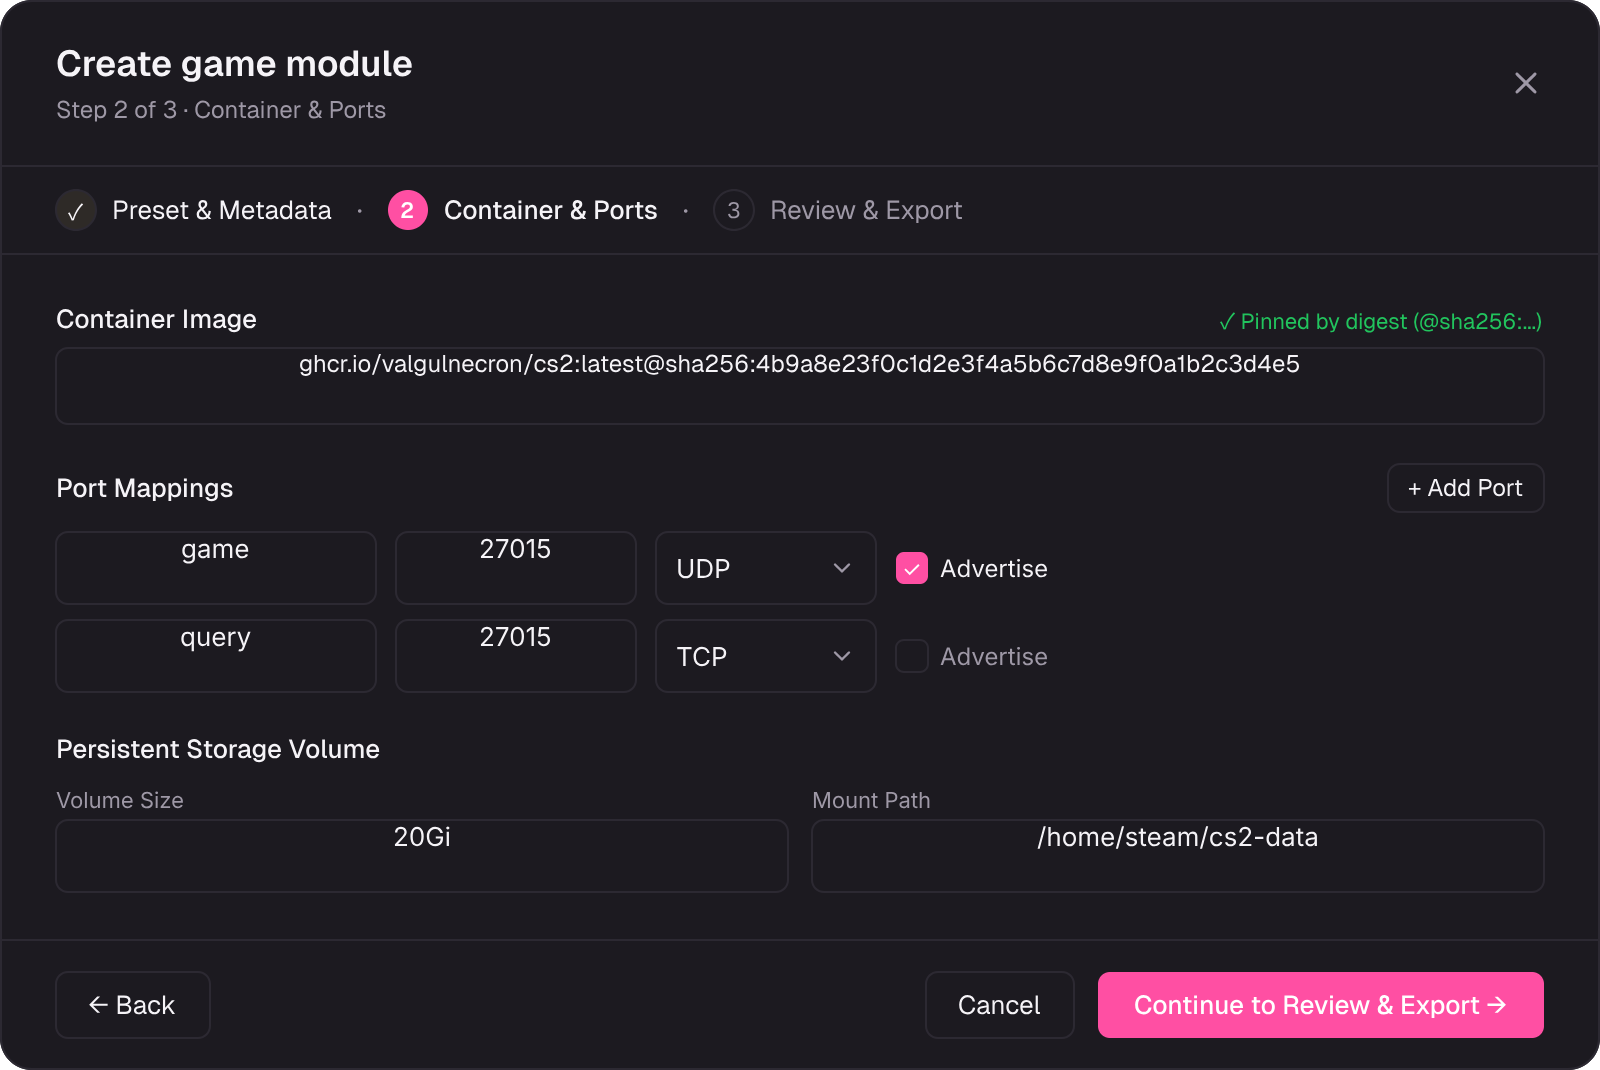
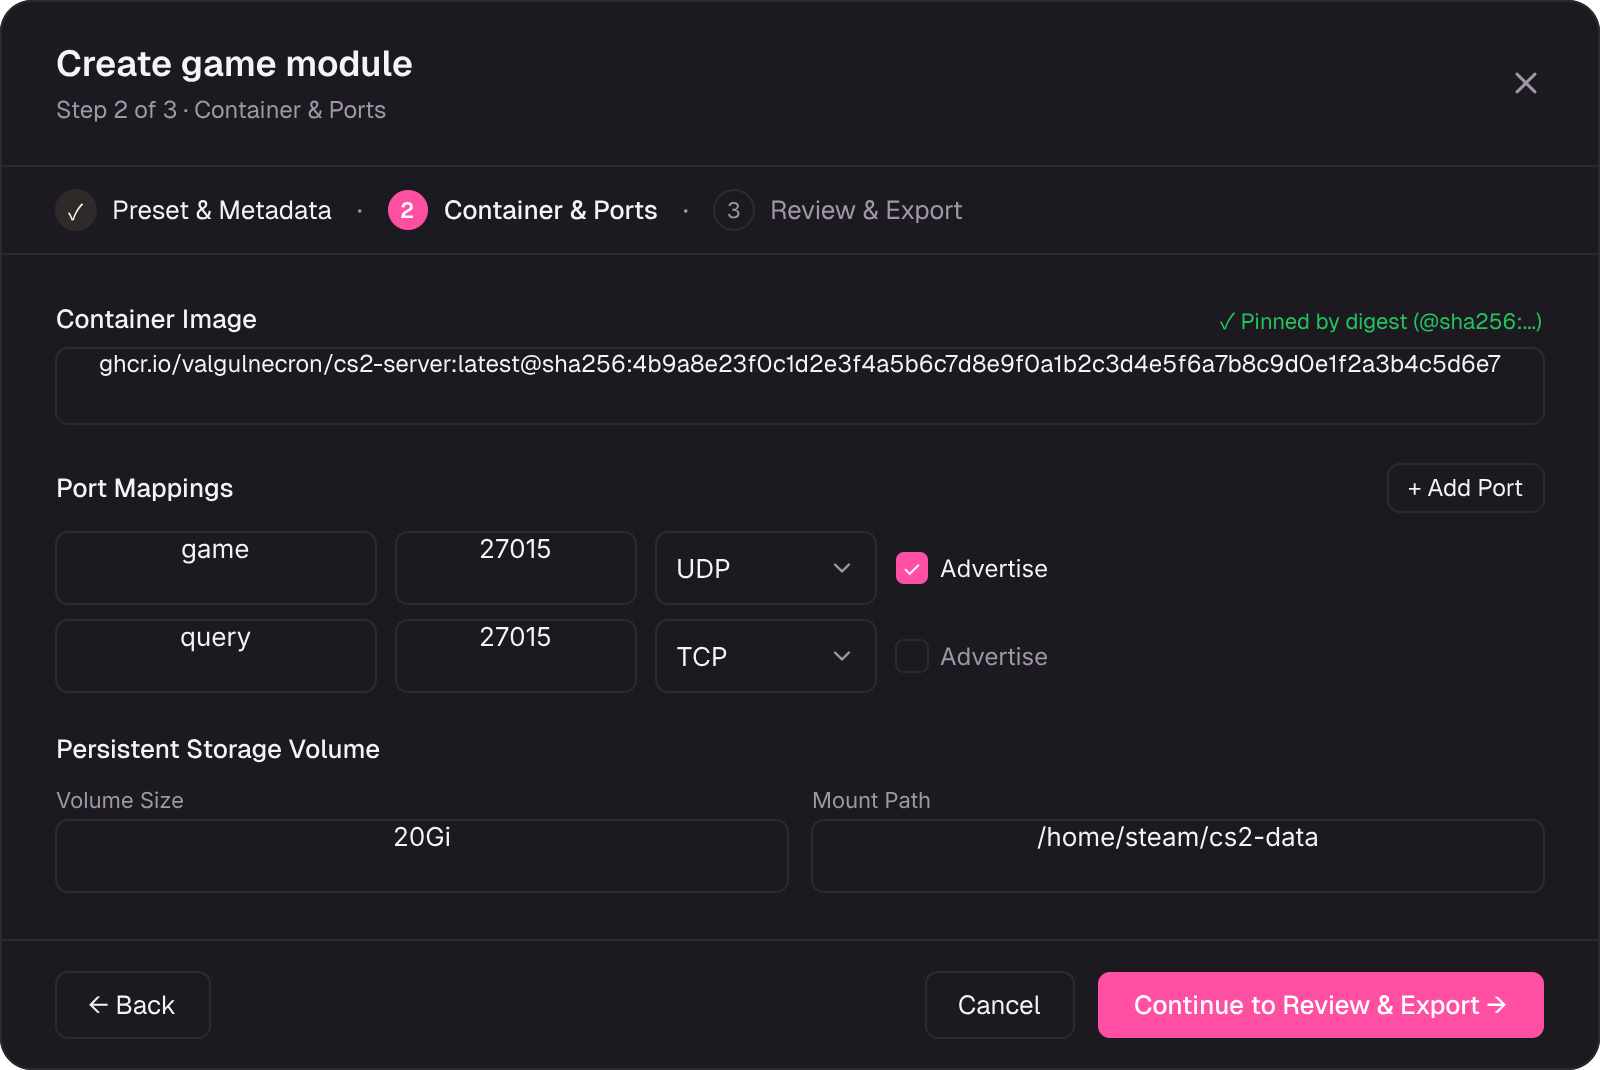
design(web): correct O5kaV container image sample and re-export
Commit 10fe068a hand-edited design-export/json/O5kaV.json directly,
without any design.pen change: it lengthened the image digest, and
changed the port 27015 -> 27016 and protocol TCP -> UDP. Export
snapshots are generated from design.pen by Pencil, never hand-written
(rule 1), so that edit left the JSON, the PNG and design.pen all
disagreeing with each other and unreconcilable by re-export.

Revert the hand-edit and redo it properly through Pencil MCP. Exactly
one node changed in design.pen:

  NQ8y0  ghcr.io/valgulnecron/cs2:latest@sha256:4b9a8e23...4d4e5
      -> ghcr.io/valgulnecron/cs2-server:latest@sha256:4b9a8e23...c5d6e7

That was the one genuine drift: wrong repo slug and a digest truncated
to 40 hex chars, versus the ARCHETYPE_PRESETS steamcmd defaultImage in
web/src/components/modules/BuildModuleDialog.tsx, which was already
correct and is unchanged here.

The other two hand-edited values were not drift and are restored:
port row 1 "game" is 27015/UDP (matching the component's single default
port) and row 2 "query" is 27015/TCP. The 27016 value matched neither
the component nor its tests and never reached design.pen.

Both artifacts re-exported from the saved design.pen per rule 1:
json/O5kaV.json (Get, zero elision, json.tool clean) and
screenshots/O5kaV.png (export_nodes at 2x, 1600x1070).

MANIFEST.md: record this pass, and correct an earlier entry that
claimed commit 12b4d449 exported six files when it changed only
[…]

Changed region(s): [[0.0625, 0.3084, 0.9375, 0.3701]]

diff --git a/design-export/MANIFEST.md b/design-export/MANIFEST.md
@@ -1983,14 +1983,32 @@ Per maintainer ruling OD-9 (`specs/done_017-share-link-expiry/OPEN-DECISIONS.md`
 **Export method & validation:** JSON via `Get(id, {depth: 12–14})` for all four nodes, zero elision markers; validated with `python3 -m json.tool`. Screenshots via `export_nodes` at 2x scale: `atqRh.png` 1088×732, `tr6cE.png` 1088×772, `oPF1n.png` 1088×892, `xCJlu.png` 2880×1800, all non-empty RGBA. Content checks: `"This link works until you revoke it"` found only in `tr6cE.json`; `"Long-lived link"` found only in `oPF1n.json`; `"content":"Never"` found in `xCJlu.json`. Read back all edited/created nodes via `Get` after each edit and via screenshot before export.
 
 No `.pen` file was Read/Grep/cat/sed — all access via Pencil MCP `get_app_state`/`execute`/`get_screenshot`/`export_nodes`. The `.pen` file itself was **not** saved (per the task's explicit instruction — the maintainer saves via the GUI). No git add/commit was performed by this pass.
-## Incremental export 2026-09-12 — 010-easy-module-building: BuildModuleDialog modal wizard
+## 010-easy-module-building: BuildModuleDialog modal wizard frames (commits 391e1960, fa5a4370)
 
-Added 3 modal wizard frames for the Web Dashboard Module Builder (US5):
+Three modal wizard frames for the Web Dashboard Module Builder (US5) were designed and initially exported in prior commits and merged to master:
 - `IdbiB`: `Screen/Dialog/Build Module — Step 1 (Preset & Metadata)` (800x700, archetype selector cards, DNS-1123 name validation, display metadata, category chips).
 - `O5kaV`: `Screen/Dialog/Build Module — Step 2 (Container & Ports)` (800x700, pinned image digest badge, dynamic port mapping list, persistent storage configuration).
 - `hmPL7`: `Screen/Dialog/Build Module — Step 3 (Review & Export)` (840x700, dual-pane layout with code viewer tabs for module.yaml/template.yaml/README.md, live offline validation checklist, memory slider preview with heap calculation, and export/install actions).
 
+**Initial exports:** commit `391e1960` (2026-09-15) first exported `IdbiB`, `O5kaV`, `hmPL7` at full length (~700+ lines each, dark theme applied). Commit `fa5a4370` (2026-09-16) made minor follow-up changes to these same three frames (2-3 line diffs each, documented in those commits). Both commits are already on master and reached this feature branch through a merge. Commit `12b4d449` (2026-09-12) contributed only the manifest narrative entry (11 lines added to MANIFEST.md); the actual frame exports are entirely from commits 391e1960/fa5a4370.
+
+## Export correction 2026-09-21 — 010-easy-module-building: O5kaV container image reference
+
+Fixed the sample container image reference in `O5kaV` (Screen/Dialog/Build Module — Step 2, Container & Ports) to match the existing `ARCHETYPE_PRESETS.steamcmd.defaultImage` in `web/src/components/modules/BuildModuleDialog.tsx`, which was already correct.
+
+| Node | Previous value | New value | Why |
+|---|---|---|---|
+| `NQ8y0` (image sample string) | `ghcr.io/valgulnecron/cs2:latest@sha256:4b9a8e23...4d4e5` (wrong repo slug "cs2", digest truncated to 40 hex chars) | `ghcr.io/valgulnecron/cs2-server:latest@sha256:4b9a8e23f0c1d2e3f4a5b6c7d8e9f0a1b2c3d4e5f6a7b8c9d0e1f2a3b4c5d6e7` (correct slug, full 64-char digest) | The design sample (`NQ8y0`) was corrected to match the already-correct `ARCHETYPE_PRESETS.steamcmd.defaultImage` in `web/src/components/modules/BuildModuleDialog.tsx`; the component's preset was never changed by this work. |
+
+**Port rows unchanged:** `f4U7oU` (port 1 name: "game"), `b4CUxa` (port 1 number: 27015), `bcGo3` (port 1 protocol: UDP), `prNFB` (port 2 number: 27015), `evKQq` (port 2 protocol: TCP), and `q96ywV` (storage mount: /home/steam/cs2-data) were examined and deliberately left as-is — they correctly represent a running server configuration. All other siblings (`IVUPC` storage capacity: 20Gi) unchanged.
+
+**Prior hand-edit overridden:** commit `10fe068a` had previously hand-edited `design-export/json/O5kaV.json` directly, changing the digest, port 27015→27016 and TCP→UDP without any corresponding Pencil design changes. That manual edit was reverted; the current export supersedes it with a proper Pencil-sourced update containing only the image reference correction and no port mutations.
+
 **Export method & validation:**
-- **JSON:** Exported full subtrees to `design-export/json/IdbiB.json`, `design-export/json/O5kaV.json`, and `design-export/json/hmPL7.json`.
-- **Screenshots:** `export_nodes` PNG export at 2x scale to `design-export/screenshots/{IdbiB,O5kaV,hmPL7}.png`.
+
+- **JSON:** `Get("O5kaV", {depth: 30})` via the Pencil `execute` tool, zero `"..."` elision markers. Re-serialized with `json.dump(indent=2, ensure_ascii=False)` + trailing newline; `python3 -m json.tool` passes.
+- **Screenshot:** `export_nodes` at 2× scale → `design-export/screenshots/O5kaV.png` 1600×1070 RGBA non-empty PNG (verified via PIL: 192052 bytes).
+- **Content check:** the full pinned image reference `ghcr.io/valgulnecron/cs2-server:latest@sha256:4b9a8e23f0c1d2e3f4a5b6c7d8e9f0a1b2c3d4e5f6a7b8c9d0e1f2a3b4c5d6e7` found exactly once, in `design-export/json/O5kaV.json` only. Port and storage values confirmed unchanged via grep.
+- **No `.pen` file was Read/Grep/cat/sed** — all access via Pencil MCP `execute`/`export_nodes`, per Rule 2.
+- No git add/commit performed (task instructions: export and manifest correction only).
 
